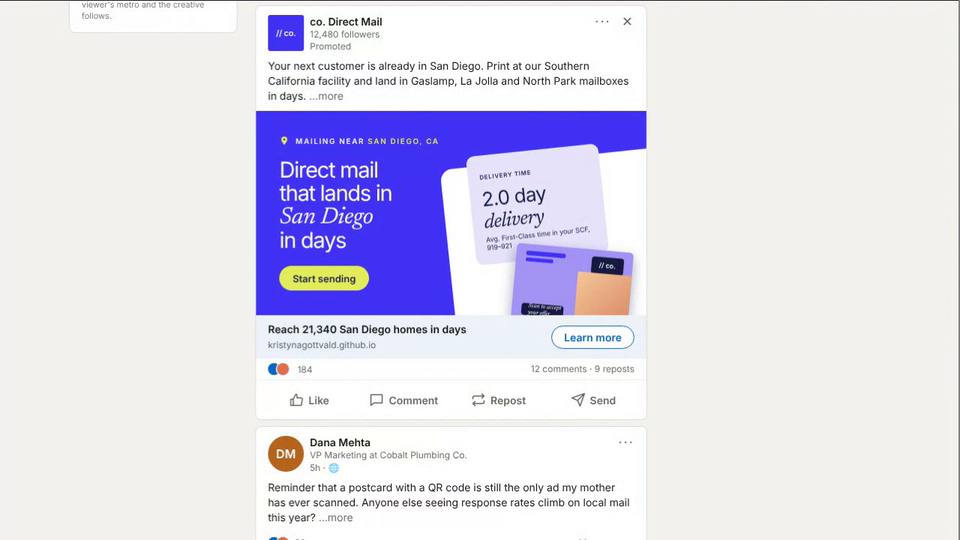
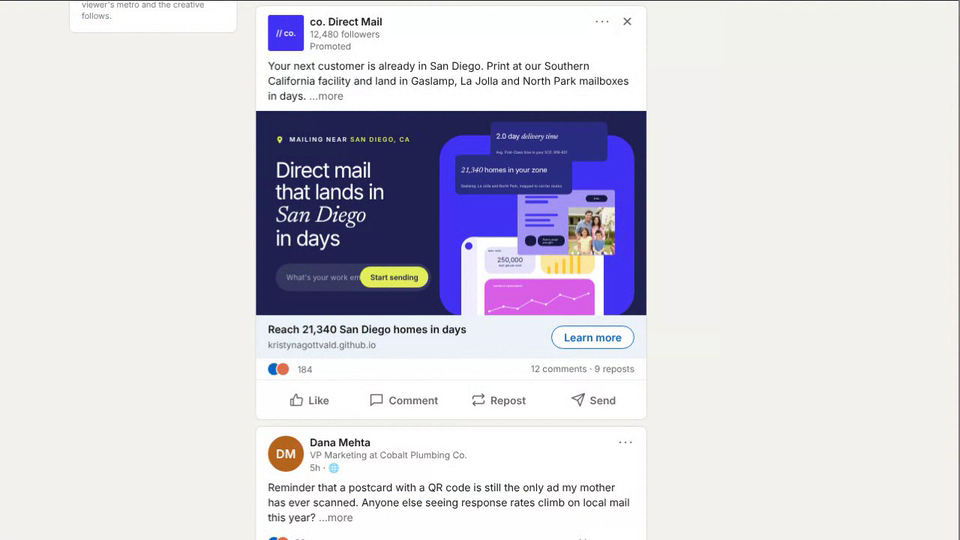
Paid Ad Pipeline: ad creative now mirrors the landing page hero
Claude-Session: https://claude.ai/code/session_01AHeBe16MbJ3hGUT21NJCss

Changed region(s): [[0.25, 0.2074, 0.6875, 0.5926]]

diff --git a/paid-ad-pipeline/index.html b/paid-ad-pipeline/index.html
@@ -66,22 +66,41 @@ nav.back span{color:#6e6e6e}nav.back b{font-weight:500;color:#fff;overflow:hidde
 .ad .cr{display:block;position:relative;aspect-ratio:1.91;background:var(--purple);overflow:hidden;container-type:inline-size;color:#fff;text-decoration:none;cursor:pointer}
 .ad .cr .sw,.ad .tx .sw{transition:opacity .3s,transform .3s,filter .3s;display:inline-block}
 .ad .out{opacity:0!important;filter:blur(4px)}
-.cr .l{position:absolute;left:6cqw;top:0;bottom:0;width:50cqw;display:flex;flex-direction:column;justify-content:center}
-.cr .chip{display:inline-flex;align-items:center;gap:1.6cqw;font:600 1.9cqw var(--sans);letter-spacing:.17em;text-transform:uppercase}
-.cr .chip svg{width:2.6cqw;height:2.6cqw;fill:var(--lime)}.cr .chip em{font-style:normal;color:var(--lime)}
-.cr h4{font:400 5.6cqw/1.05 var(--sans);letter-spacing:-.045em;margin:3.4cqw 0 3.4cqw;white-space:nowrap}
-.cr h4 i{font:italic 400 6cqw var(--serif);letter-spacing:-.01em}
-.cr .pill{align-self:flex-start;background:var(--lime);color:var(--ink);font:600 2.5cqw var(--sans);padding:1.7cqw 3.4cqw;border-radius:99px}
-.cr .r{position:absolute;right:-6cqw;top:12cqw;width:56cqw;height:60cqw;background:#fff;border-radius:3cqw;transform:rotate(-6deg)}
-.cr .t1{position:absolute;right:11cqw;top:10cqw;width:34cqw;background:var(--lav2);border-radius:2cqw;padding:3cqw;transform:rotate(-6deg);color:var(--ink)}
-.cr .t1 small{font:600 1.5cqw var(--sans);letter-spacing:.1em;color:#2a2b5c}
-.cr .t1 b{display:block;font:400 5cqw/1.1 var(--sans);letter-spacing:-.03em;margin:1.8cqw 0 .6cqw}.cr .t1 b i{font:italic 400 5.2cqw var(--serif)}
-.cr .t1 span{font:400 1.7cqw var(--sans)}
-.cr .pcard{position:absolute;right:4cqw;top:35cqw;width:30cqw;aspect-ratio:1.5;background:#a393f5;border-radius:1cqw;transform:rotate(5deg);box-shadow:0 1.4cqw 3cqw rgba(15,10,70,.35);overflow:hidden}
-.cr .pcard i{position:absolute;left:8%;height:5%;background:var(--purple);border-radius:9px}
-.cr .pcard u{position:absolute;right:8%;top:9%;background:var(--deep);border-radius:4px;font:600 1.7cqw/1 var(--sans);padding:1.3cqw 2cqw;text-decoration:none}
-.cr .pcard s{position:absolute;right:0;bottom:0;width:46%;height:70%;background:linear-gradient(135deg,#f6c99b,#d98a62);text-decoration:none}
-.cr .pcard em{position:absolute;left:8%;bottom:9%;width:36%;height:15%;background:var(--deep);border-radius:4px;font:italic 400 1.5cqw/1.15 var(--serif);display:flex;align-items:center;padding-left:6%}
+.ad .cr{background:var(--ink)}
+.cr .l{position:absolute;left:5cqw;top:0;bottom:0;width:41cqw;display:flex;flex-direction:column;justify-content:center}
+.cr .chip{display:inline-flex;align-items:center;gap:1.4cqw;font:600 1.6cqw var(--sans);letter-spacing:.17em;text-transform:uppercase}
+.cr .chip svg{width:2.2cqw;height:2.2cqw;fill:var(--lime)}.cr .chip em{font-style:normal;color:var(--lime)}
+.cr h4{font:400 5.4cqw/1.04 var(--sans);letter-spacing:-.045em;margin:4cqw 0 3.6cqw;white-space:nowrap}
+.cr h4 i{font:italic 400 5.8cqw var(--serif);letter-spacing:-.01em}
+.cr .form{display:flex;padding:.8cqw;border-radius:99px;background:rgba(255,255,255,.1);width:40cqw}
+.cr .form span{flex:1;font:400 1.9cqw var(--sans);color:rgba(255,255,255,.55);padding:0 2cqw;align-self:center;white-space:nowrap;overflow:hidden}
+.cr .form b{background:var(--lime);color:var(--ink);font:600 1.9cqw var(--sans);padding:1.6cqw 2.6cqw;border-radius:99px;white-space:nowrap}
+.cr .stage{position:absolute;right:3cqw;top:50%;width:50cqw;aspect-ratio:1;transform:translateY(-47%);container-type:inline-size}
+.cr .stage>*{pointer-events:none}
+.cr .bl{position:absolute;width:60%;background:var(--card);border-radius:6px;padding:2.6cqw 3cqw;color:#fff;z-index:3}
+.cr .bl strong{display:block;font:400 3.6cqw/1.1 var(--sans);letter-spacing:-.02em}.cr .bl strong i{font:italic 400 3.8cqw var(--serif)}
+.cr .bl p{font:400 1.85cqw/1.4 var(--sans);color:rgba(255,255,255,.75);margin-top:1.2cqw}
+.cr .box{position:absolute;left:0;right:0;top:7%;bottom:0;background:var(--purple);border-radius:32px;overflow:hidden}
+.cr .plat{position:absolute;left:11%;top:56.3%;width:73%;height:57.4%;background:#fff;border-radius:16px 16px 0 0}
+.cr .sd{position:absolute;left:0;top:0;bottom:0;width:11.5%;background:#f1effd;border-radius:16px 0 0 0}
+.cr .sd i{position:absolute;left:23%;top:5%;width:46%;aspect-ratio:1;background:var(--purple);border-radius:50%}
+.cr .t{position:absolute;border-radius:10px}
+.cr .ta{left:16.5%;top:9%;width:36%;height:26%;background:var(--lav2)}
+.cr .ta small{position:absolute;left:8%;top:9%;font:600 1.05cqw var(--sans);letter-spacing:.1em;color:#2a2b5c}
+.cr .ta b{position:absolute;left:0;right:0;top:34%;text-align:center;font:400 3.3cqw var(--sans);color:var(--ink)}
+.cr .ta span{position:absolute;left:0;right:0;top:63%;text-align:center;font:400 1.55cqw var(--sans);color:var(--ink)}
+.cr .tb{left:56%;top:9%;width:38%;height:26%;background:var(--yel)}
+.cr .tb i{position:absolute;bottom:0;width:6%;background:var(--yel2);border-radius:3px 3px 0 0}
+.cr .tc{left:16.5%;top:40%;width:77.5%;height:60%;background:var(--pink)}
+.cr .tc small{position:absolute;left:8%;top:9%;font:600 1.05cqw var(--sans);letter-spacing:.1em;color:#fff}
+.cr .tc svg{position:absolute;left:0;top:16%;width:100%;height:auto}
+.cr .mail{position:absolute;z-index:2;left:40%;top:35%;width:50%;aspect-ratio:1.5;border-radius:3px;overflow:hidden;background:#a393f5}
+.cr .mail .el{position:absolute}
+.cr .mail .bar2{background:var(--purple);border-radius:99px}
+.cr .mail .tag{background:var(--deep);color:#fff;border-radius:6px;font:600 1.2cqw/1 var(--sans);display:flex;align-items:center;justify-content:center}
+.cr .mail .scan{background:var(--deep);color:#fff;border-radius:6px;font:italic 400 1.4cqw/1.15 var(--serif);display:flex;align-items:center;padding:0 5%}
+.cr .mail .qr{background:var(--deep);border-radius:6px}
+.cr .mail img{object-fit:cover}
 .ad .bar{display:flex;align-items:center;gap:12px;padding:10px 16px;background:#edf3f8}
 .ad .bar b{display:block;font:600 14px/1.3 var(--sans)}.ad .bar small{font-size:12px;color:rgba(0,0,0,.6)}
 .ad .bar a.go{margin-left:auto;flex:none;border:1px solid var(--li);color:var(--li);font:600 14px var(--sans);padding:6px 16px;border-radius:99px;text-decoration:none;background:#fff;white-space:nowrap}
@@ -197,11 +216,17 @@ tfoot td{font-weight:600;border-top:1px solid rgba(255,255,255,.25)}
    <article class="pn post ad" id="ad"><div class="ph0"><div class="ph-av sq">// co.</div><div><b>co. Direct Mail</b><small>12,480 followers<br><span class="promo">Promoted</span></small></div><span class="more">··· &nbsp;✕</span></div>
     <p class="txt" id="adtxt"><span class="sw" id="adIntro"></span></p>
     <a class="cr" id="adCr" href="https://kristynagottvald.github.io/sandbox/location-hero/?utm_source=linkedin&amp;utm_medium=paid_social&amp;utm_campaign=location_hero" aria-label="Direct mail that lands in your city in days. Opens the landing page">
-     <div class="r"></div>
-     <div class="t1"><small>DELIVERY TIME</small><b class="sw" id="crDays"></b><span class="sw" id="crScf"></span></div>
-     <div class="pcard"><i style="top:9%;width:34%"></i><i style="top:17%;width:24%"></i><u>// co.</u><s></s><em>Scan to accept your offer</em></div>
      <div class="l"><div class="chip"><svg viewBox="0 0 24 24"><path d="M12 2a7 7 0 0 0-7 7c0 5.200 7 13 7 13s7-7.800 7-13a7 7 0 0 0-7-7zm0 9.500a2.500 2.500 0 1 1 0-5 2.500 2.500 0 0 1 0 5z"/></svg><span>Mailing near <em class="sw" id="crCity"></em></span></div>
-      <h4><span class="sw" id="crH"></span></h4><span class="pill">Start sending</span></div>
+      <h4><span class="sw" id="crH"></span></h4><div class="form"><span>What's your work email?</span><b>Start sending</b></div></div>
+     <div class="stage"><div class="bl" style="left:26%;top:0"><strong class="sw" id="b1h"></strong><p class="sw" id="b1p"></p></div><div class="bl" style="left:8%;top:17%"><strong class="sw" id="b2h"></strong><p class="sw" id="b2p"></p></div>
+      <div class="box"><div class="plat"><div class="sd"><i></i></div>
+       <div class="t ta"><small>MAIL SEND</small><b>250,000</b><span>mail pieces sent</span></div>
+       <div class="t tb"><i style="left:12%;height:26%"></i><i style="left:26%;height:42%"></i><i style="left:40%;height:56%"></i><i style="left:54%;height:74%"></i><i style="left:68%;height:92%"></i></div>
+       <div class="t tc"><small>AUDIENCE ENGAGEMENT</small><svg viewBox="0 0 320 80"><polyline fill="none" stroke="#fff" stroke-width="1.6" stroke-linejoin="round" points="14,66 55,52 96,58 137,34 178,46 219,18 260,30 301,14"/><g fill="#fff"><circle cx="14" cy="66" r="3"/><circle cx="55" cy="52" r="3"/><circle cx="96" cy="58" r="3"/><circle cx="137" cy="34" r="3"/><circle cx="178" cy="46" r="3"/><circle cx="219" cy="18" r="3"/><circle cx="260" cy="30" r="3"/><circle cx="301" cy="14" r="3"/></g></svg></div></div></div>
+      <div class="mail"><div class="el bar2" style="left:7.7%;top:9%;width:34%;height:4.2%"></div><div class="el bar2" style="left:7.7%;top:16.5%;width:24%;height:4.2%"></div><div class="el tag" style="left:70%;top:8.5%;width:22%;height:10%">// co.</div>
+       <div class="el bar2" style="left:7.7%;top:37%;width:34%;height:3.6%"></div><div class="el bar2" style="left:7.7%;top:45%;width:26%;height:3.6%"></div><div class="el bar2" style="left:7.7%;top:53%;width:30%;height:3.6%"></div>
+       <div class="el qr" style="left:7.7%;top:70%;width:11.4%;height:17%"></div><div class="el scan" style="left:20.6%;top:70%;width:28%;height:17%">Scan to accept your offer</div>
+       <img class="el" src="../location-hero/photo.jpg" alt="" style="left:52%;top:27%;width:48%;height:73%"></div></div>
     </a>
     <div class="bar"><div class="tx"><b><span class="sw" id="barT"></span></b><small>kristynagottvald.github.io</small></div><a class="go" id="adGo" href="https://kristynagottvald.github.io/sandbox/location-hero/?utm_source=linkedin&amp;utm_medium=paid_social&amp;utm_campaign=location_hero">Learn more</a></div>
     <div class="cnt"><span class="rx"><i></i><i></i>&nbsp;<span id="likes">184</span></span><span>12 comments · 9 reposts</span></div>
@@ -270,10 +295,10 @@ document.querySelectorAll('[data-go]').forEach(b=>b.onclick=()=>go(+b.dataset.go
 /* ---------- 1: feed and ad ---------- */
 $('geo').innerHTML=M.map((m,i)=>`<option value="${i}">${m.city}</option>`).join('');
 $('geo').onchange=e=>setMarket(+e.target.value);
-const swEls=['adIntro','crCity','crH','crDays','crScf','barT'].map($);
+const swEls=['adIntro','crCity','crH','b1h','b1p','b2h','b2p','barT'].map($);
 function paintAd(){const m=M[state.m];
  $('adIntro').innerHTML=m.intro+' <span class="mr" style="color:rgba(0,0,0,.6)">…more</span>';$('crCity').textContent=m.city;
- $('crH').innerHTML=`Direct mail<br>that lands in<br><i>${m.short}</i><br>in days`;$('crDays').innerHTML=`${m.days} day <i>delivery</i>`;$('crScf').textContent=m.scf;$('barT').textContent=m.bar;
+ $('crH').innerHTML=`Direct mail<br>that lands in<br><i>${m.short}</i><br>in days`;$('b1h').innerHTML=`${m.days} day <i>delivery time</i>`;$('b1p').textContent=m.scf;$('b2h').innerHTML=`<i>${m.homes.toLocaleString('en-US')}</i> homes in your zone`;$('b2p').textContent=m.hoods+', mapped to carrier routes';$('barT').textContent=m.bar;
  $('geo').value=state.m;$('utmCity').textContent=m.city}
 function setMarket(i,instant){state.m=i;if(instant){paintAd();return}
  swEls.forEach(e=>e.classList.add('out'));setTimeout(()=>{paintAd();swEls.forEach(e=>e.classList.remove('out'))},300);
